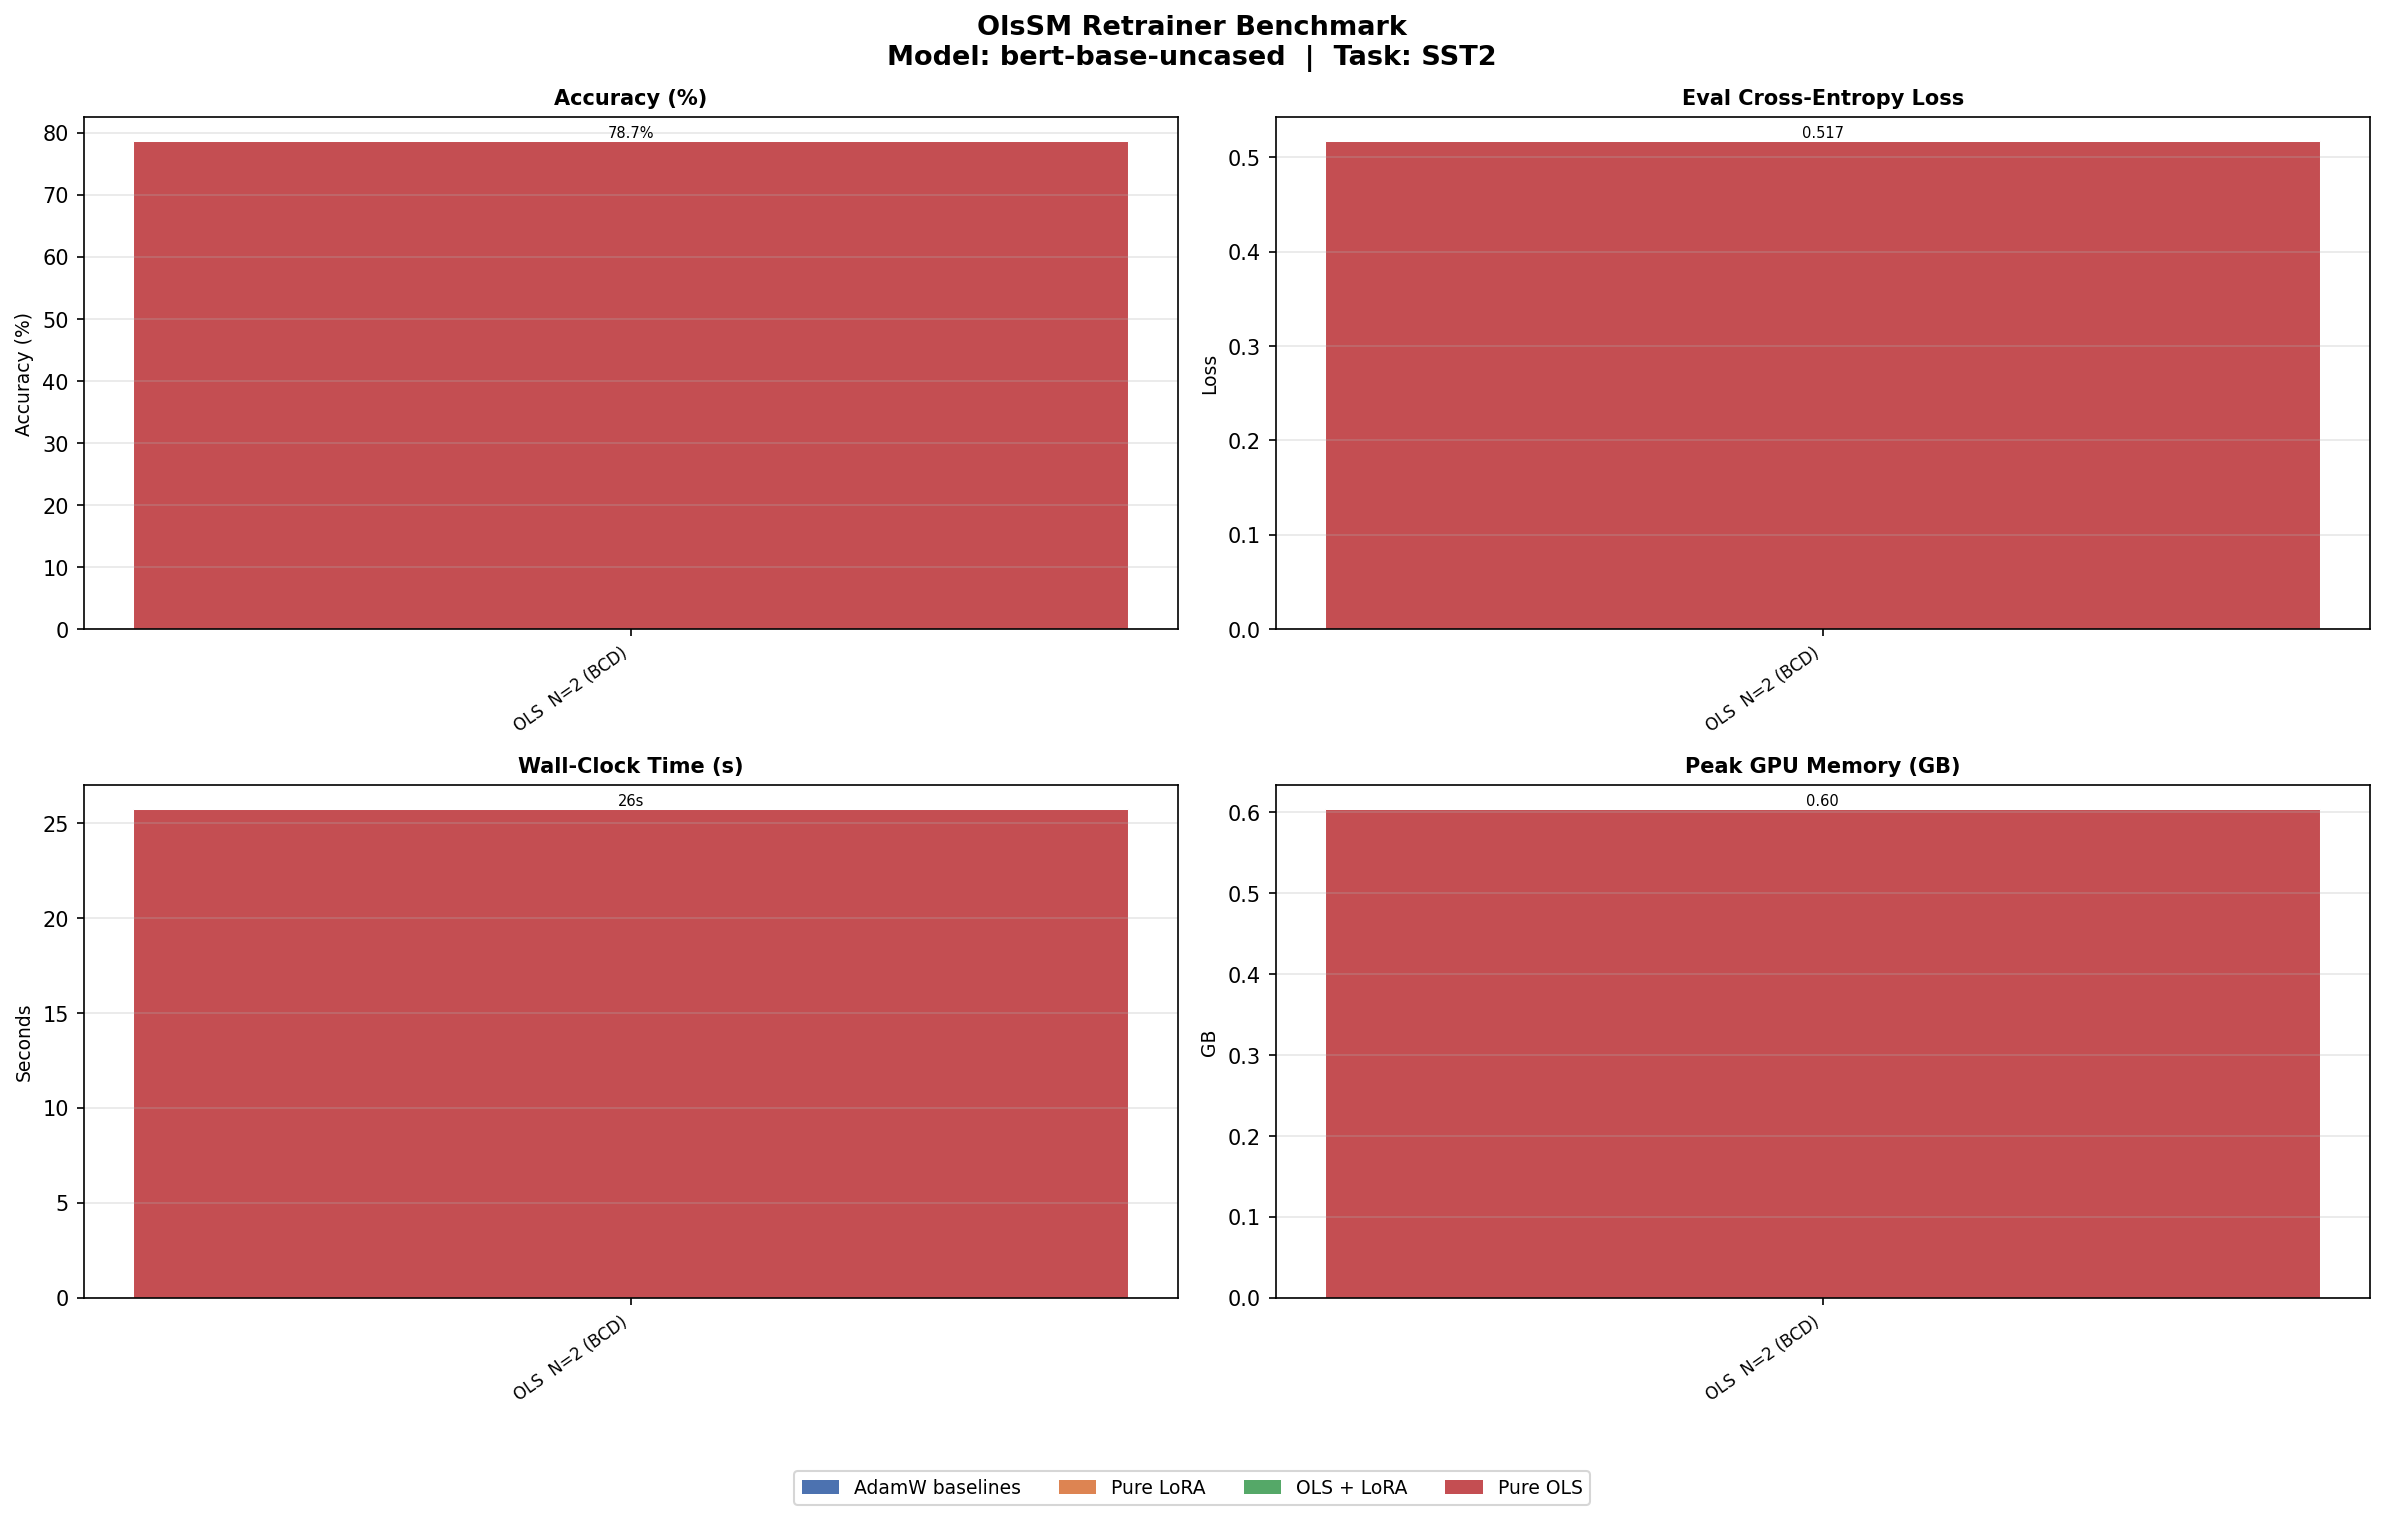
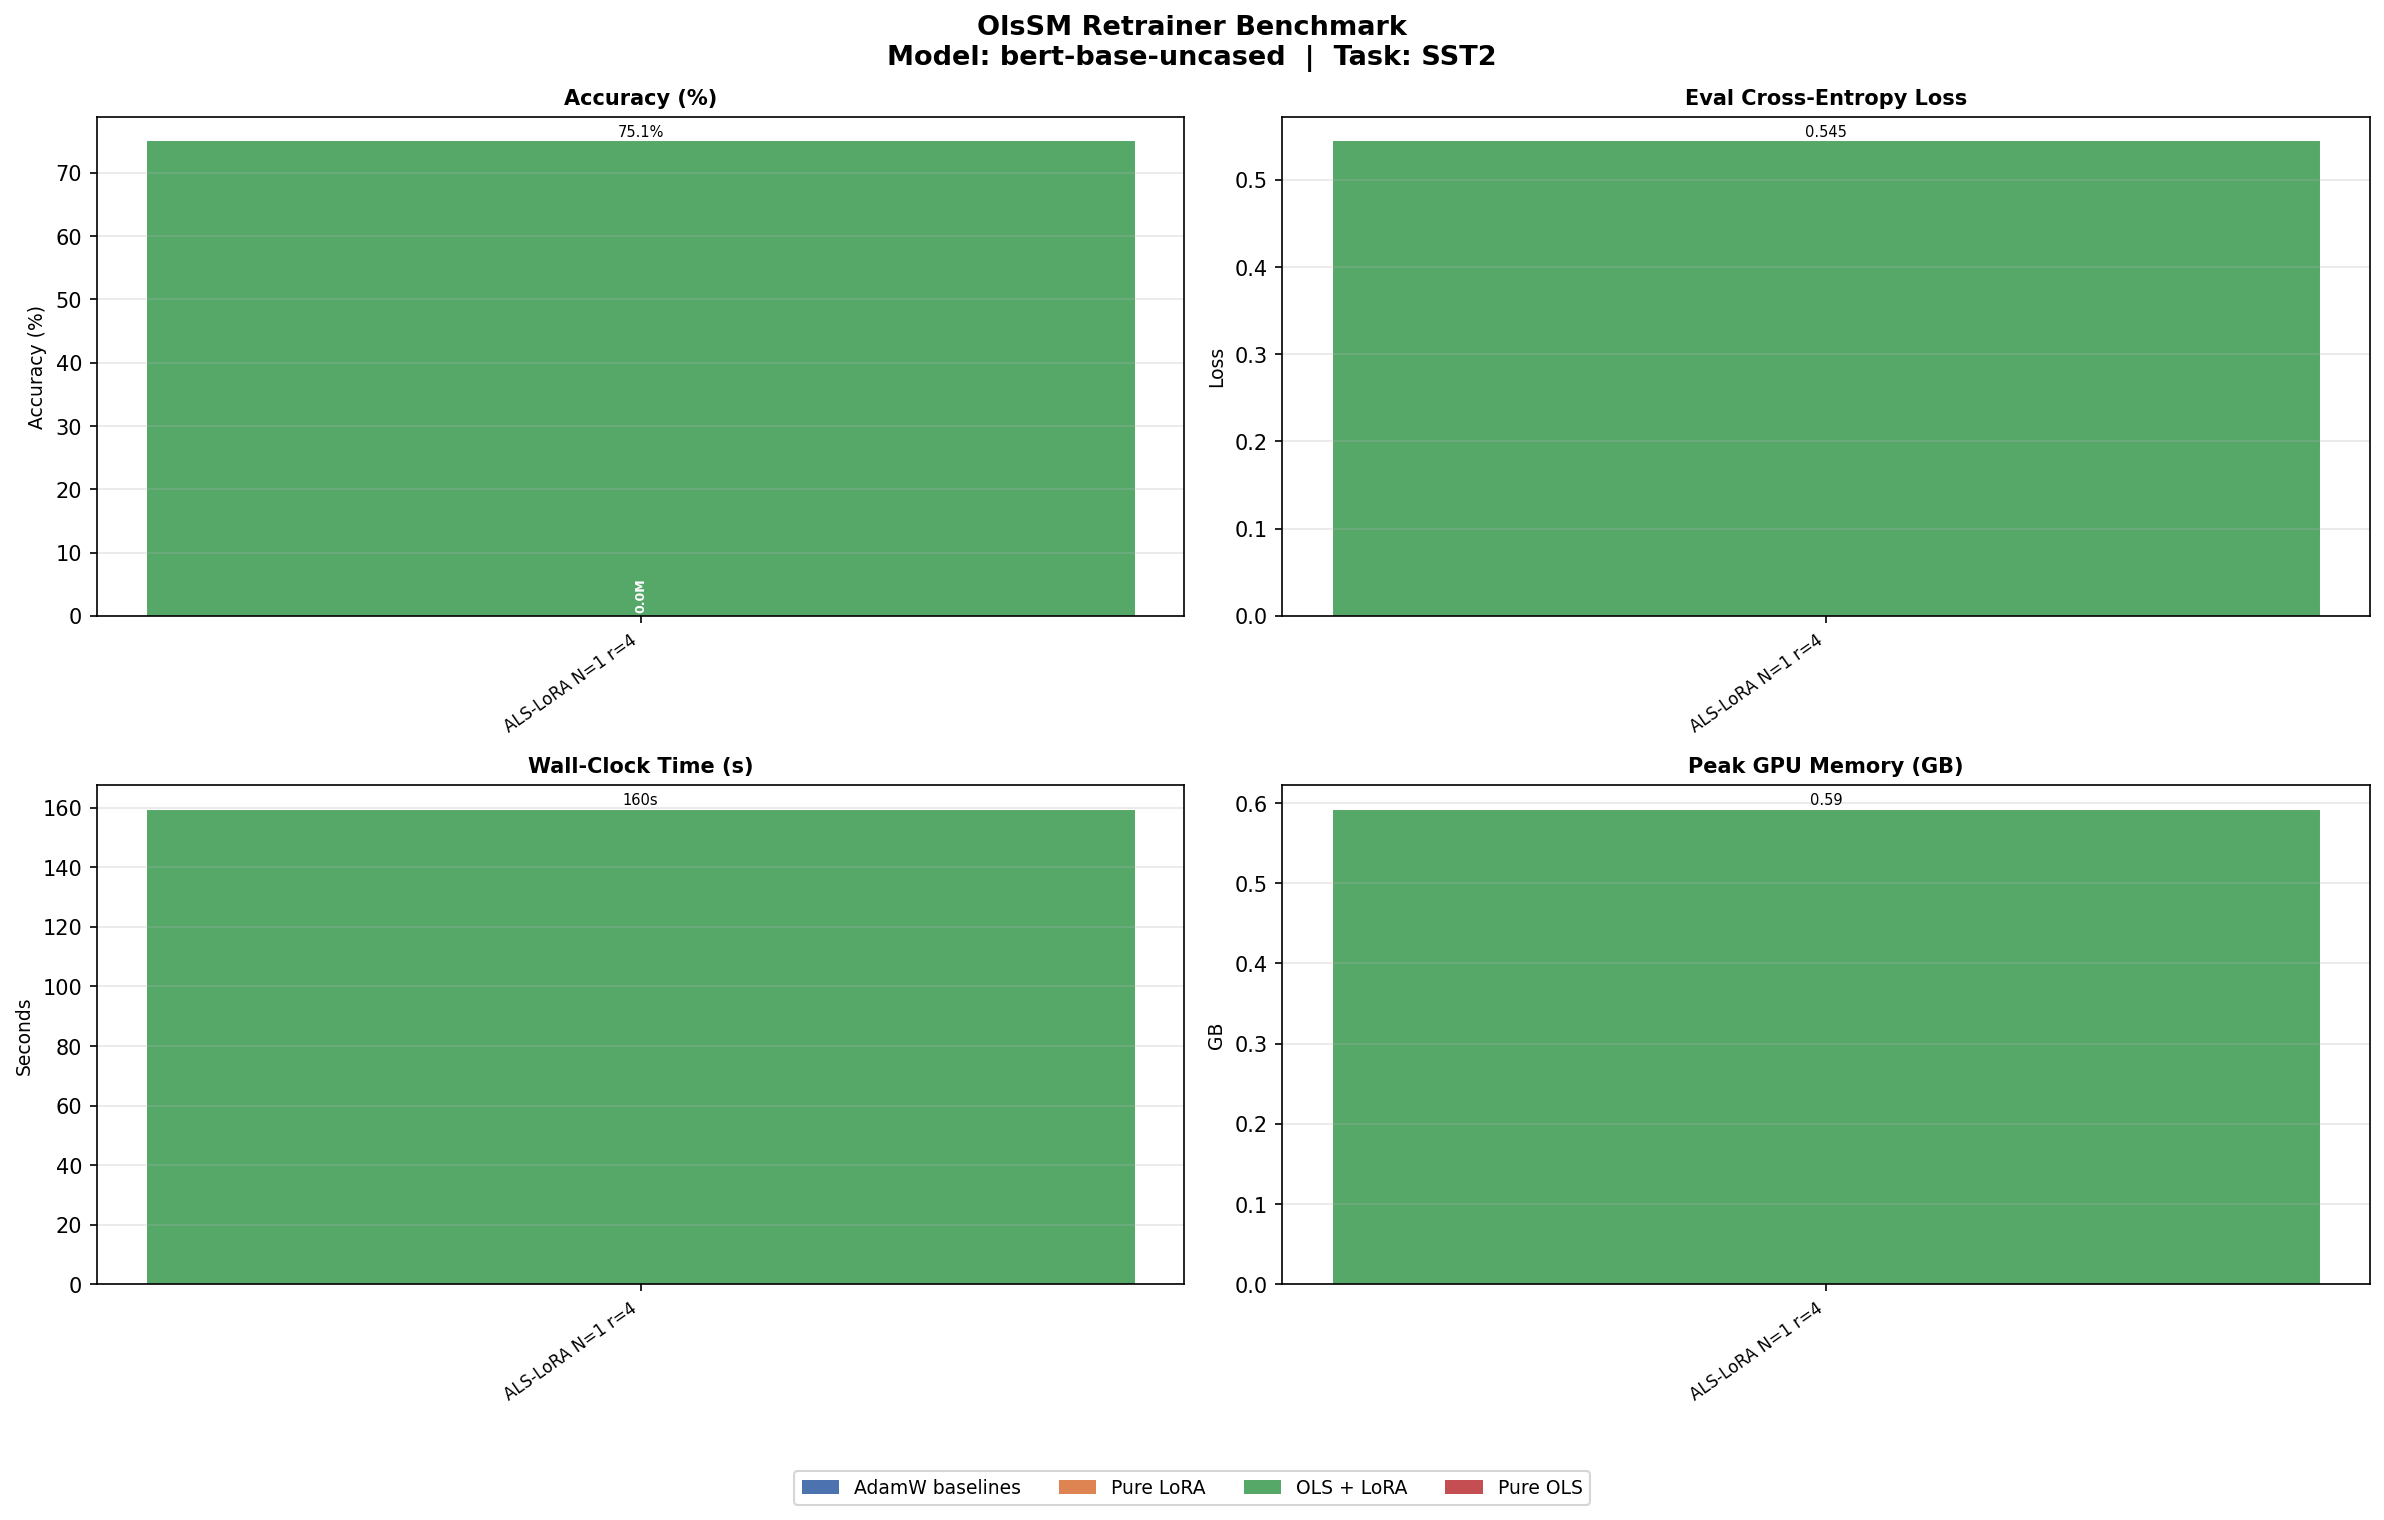
ssh root@213.173.98.25 -p 13662 -i ~/.ssh/id_ed25519

diff --git a/benchmark/retrainer_benchmark.py b/benchmark/retrainer_benchmark.py
@@ -982,6 +982,13 @@ def main():
     ]
 
     for mode in modes:
+        # Re-seed BEFORE every mode so each one starts from an identical RNG
+        # state.  Without this, modes that run later in the suite see an
+        # advanced RNG (earlier modes' DataLoader shuffles and dropout draws
+        # consume random numbers), producing different results than if the
+        # same mode ran in isolation.  Observed 7+pp accuracy swing on
+        # ols_n1 between standalone runs and multi-mode suites.
+        _set_all_seeds(args.seed)
         try:
             if mode == "adam":
                 r = run_adam(model_init, train_loader, eval_loader, device,
